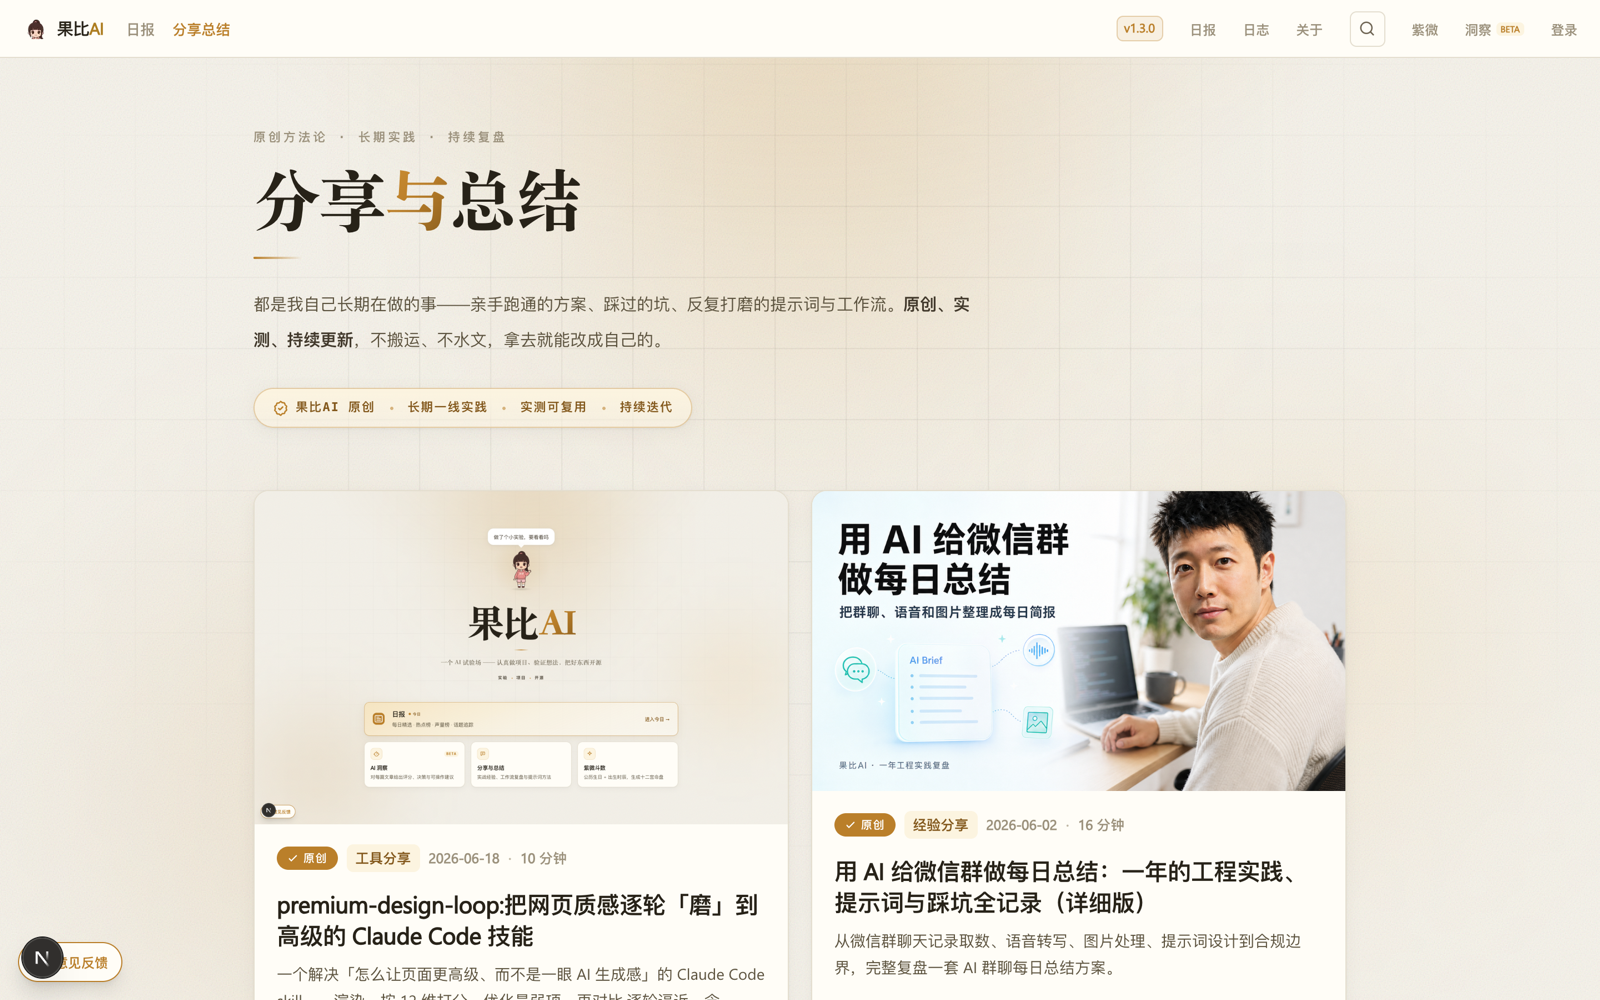
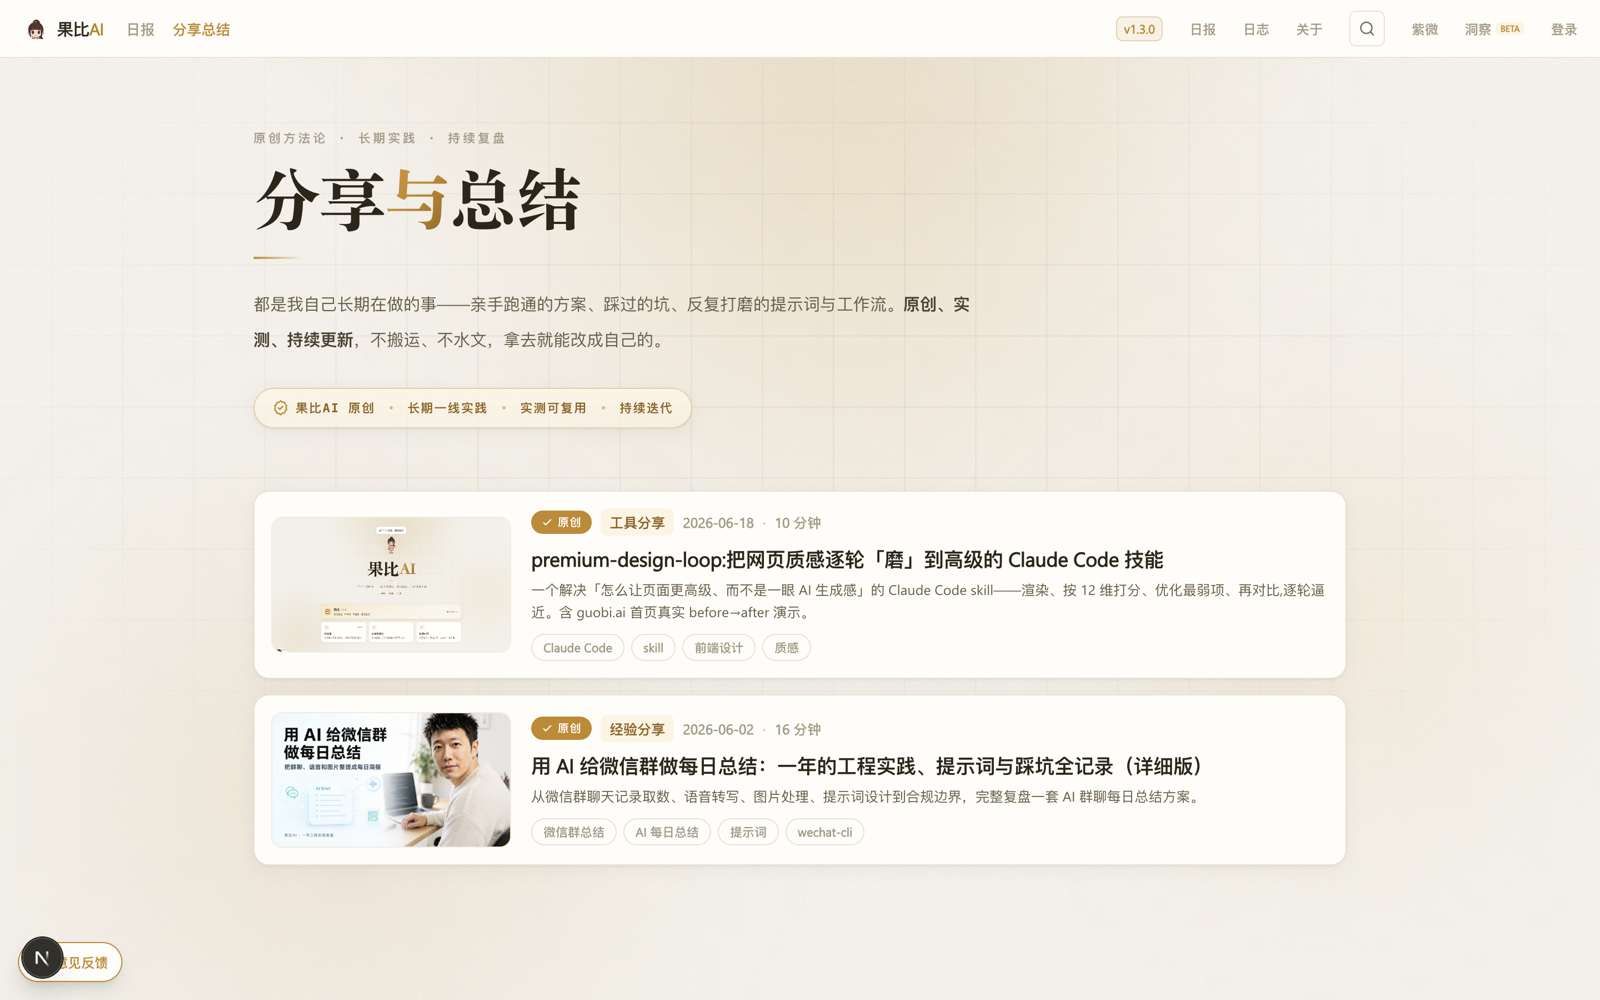
docs: update /shares demo images to compact list layout

diff --git a/README.md b/README.md
@@ -72,10 +72,10 @@ cp -r premium-design-loop ~/.claude/skills/
 
 高级感是**整站属性**——漂亮首页配通用内页反而更廉价。首页磨好后,用**同一个 skill**、复用首页那套光影系统,把 `/shares` 列表页也拉齐。
 
-**之前** — 导航栏下挂了个通用博客列表:扁平等权、无光影、封面被窄列裁掉大半。
+**之前** — 导航栏下挂了个通用博客列表:扁平等权、无光影、信息密度低。
 
 ![shares 之前](assets/shares-before.png)
 
-**之后** — 接入首页同款光影外壳 + 衬线大标题 + 「原创 · 长期实践」署名条 + 16:9 封面完整的编辑式两列卡片,移动端专门适配。**复用已建立的设计系统**,而不是另起一套——这正是单页 skill 看不见、却最影响整站质感的一环。
+**之后** — 接入首页同款光影外壳 + 衬线大标题 + 「原创 · 长期实践」署名条 + 紧凑横排列表(桌面小缩略图行、移动端封面顶置,封面 16:9 完整不裁)。**复用已建立的设计系统**,而不是另起一套——这正是单页 skill 看不见、却最影响整站质感的一环。
 
 ![shares 之后](assets/shares-after.png)